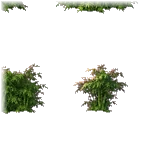
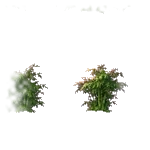
Fix dai toi doc + mang lech tong + nem den: va seam map-full (x1152-1203) bang mirror-blend, lap nem den mep trai, can bang tong tan so thap, hoa duong ngang y345; prop: lam mem alpha mep 28 file (edge4 255-><=9, day 148->0); cache-bust ?v=28

diff --git a/index.html b/index.html
@@ -120,11 +120,11 @@
 <div id="err" style="display:none;position:fixed;left:0;right:0;bottom:0;max-height:45%;overflow:auto;background:#5a0f0f;color:#ffd9d9;font:12px/1.35 Consolas,monospace;padding:8px 10px;z-index:9999;white-space:pre-wrap"></div>
 <script src="vendor/phaser.min.js"></script>
 <script src="js/ground.js"></script>
-<script>window.__KT_VER=26;</script>
-<script src="js/loot.js?v=26"></script>
-<script src="js/story.js?v=26"></script>
-<script src="js/afk-battle.js?v=26"></script>
-<script src="js/game.js?v=26"></script>
+<script>window.__KT_VER=28;</script>
+<script src="js/loot.js?v=28"></script>
+<script src="js/story.js?v=28"></script>
+<script src="js/afk-battle.js?v=28"></script>
+<script src="js/game.js?v=28"></script>
 
 <div id="touch" style="display:none">
   <div id="joy"><i></i></div>
